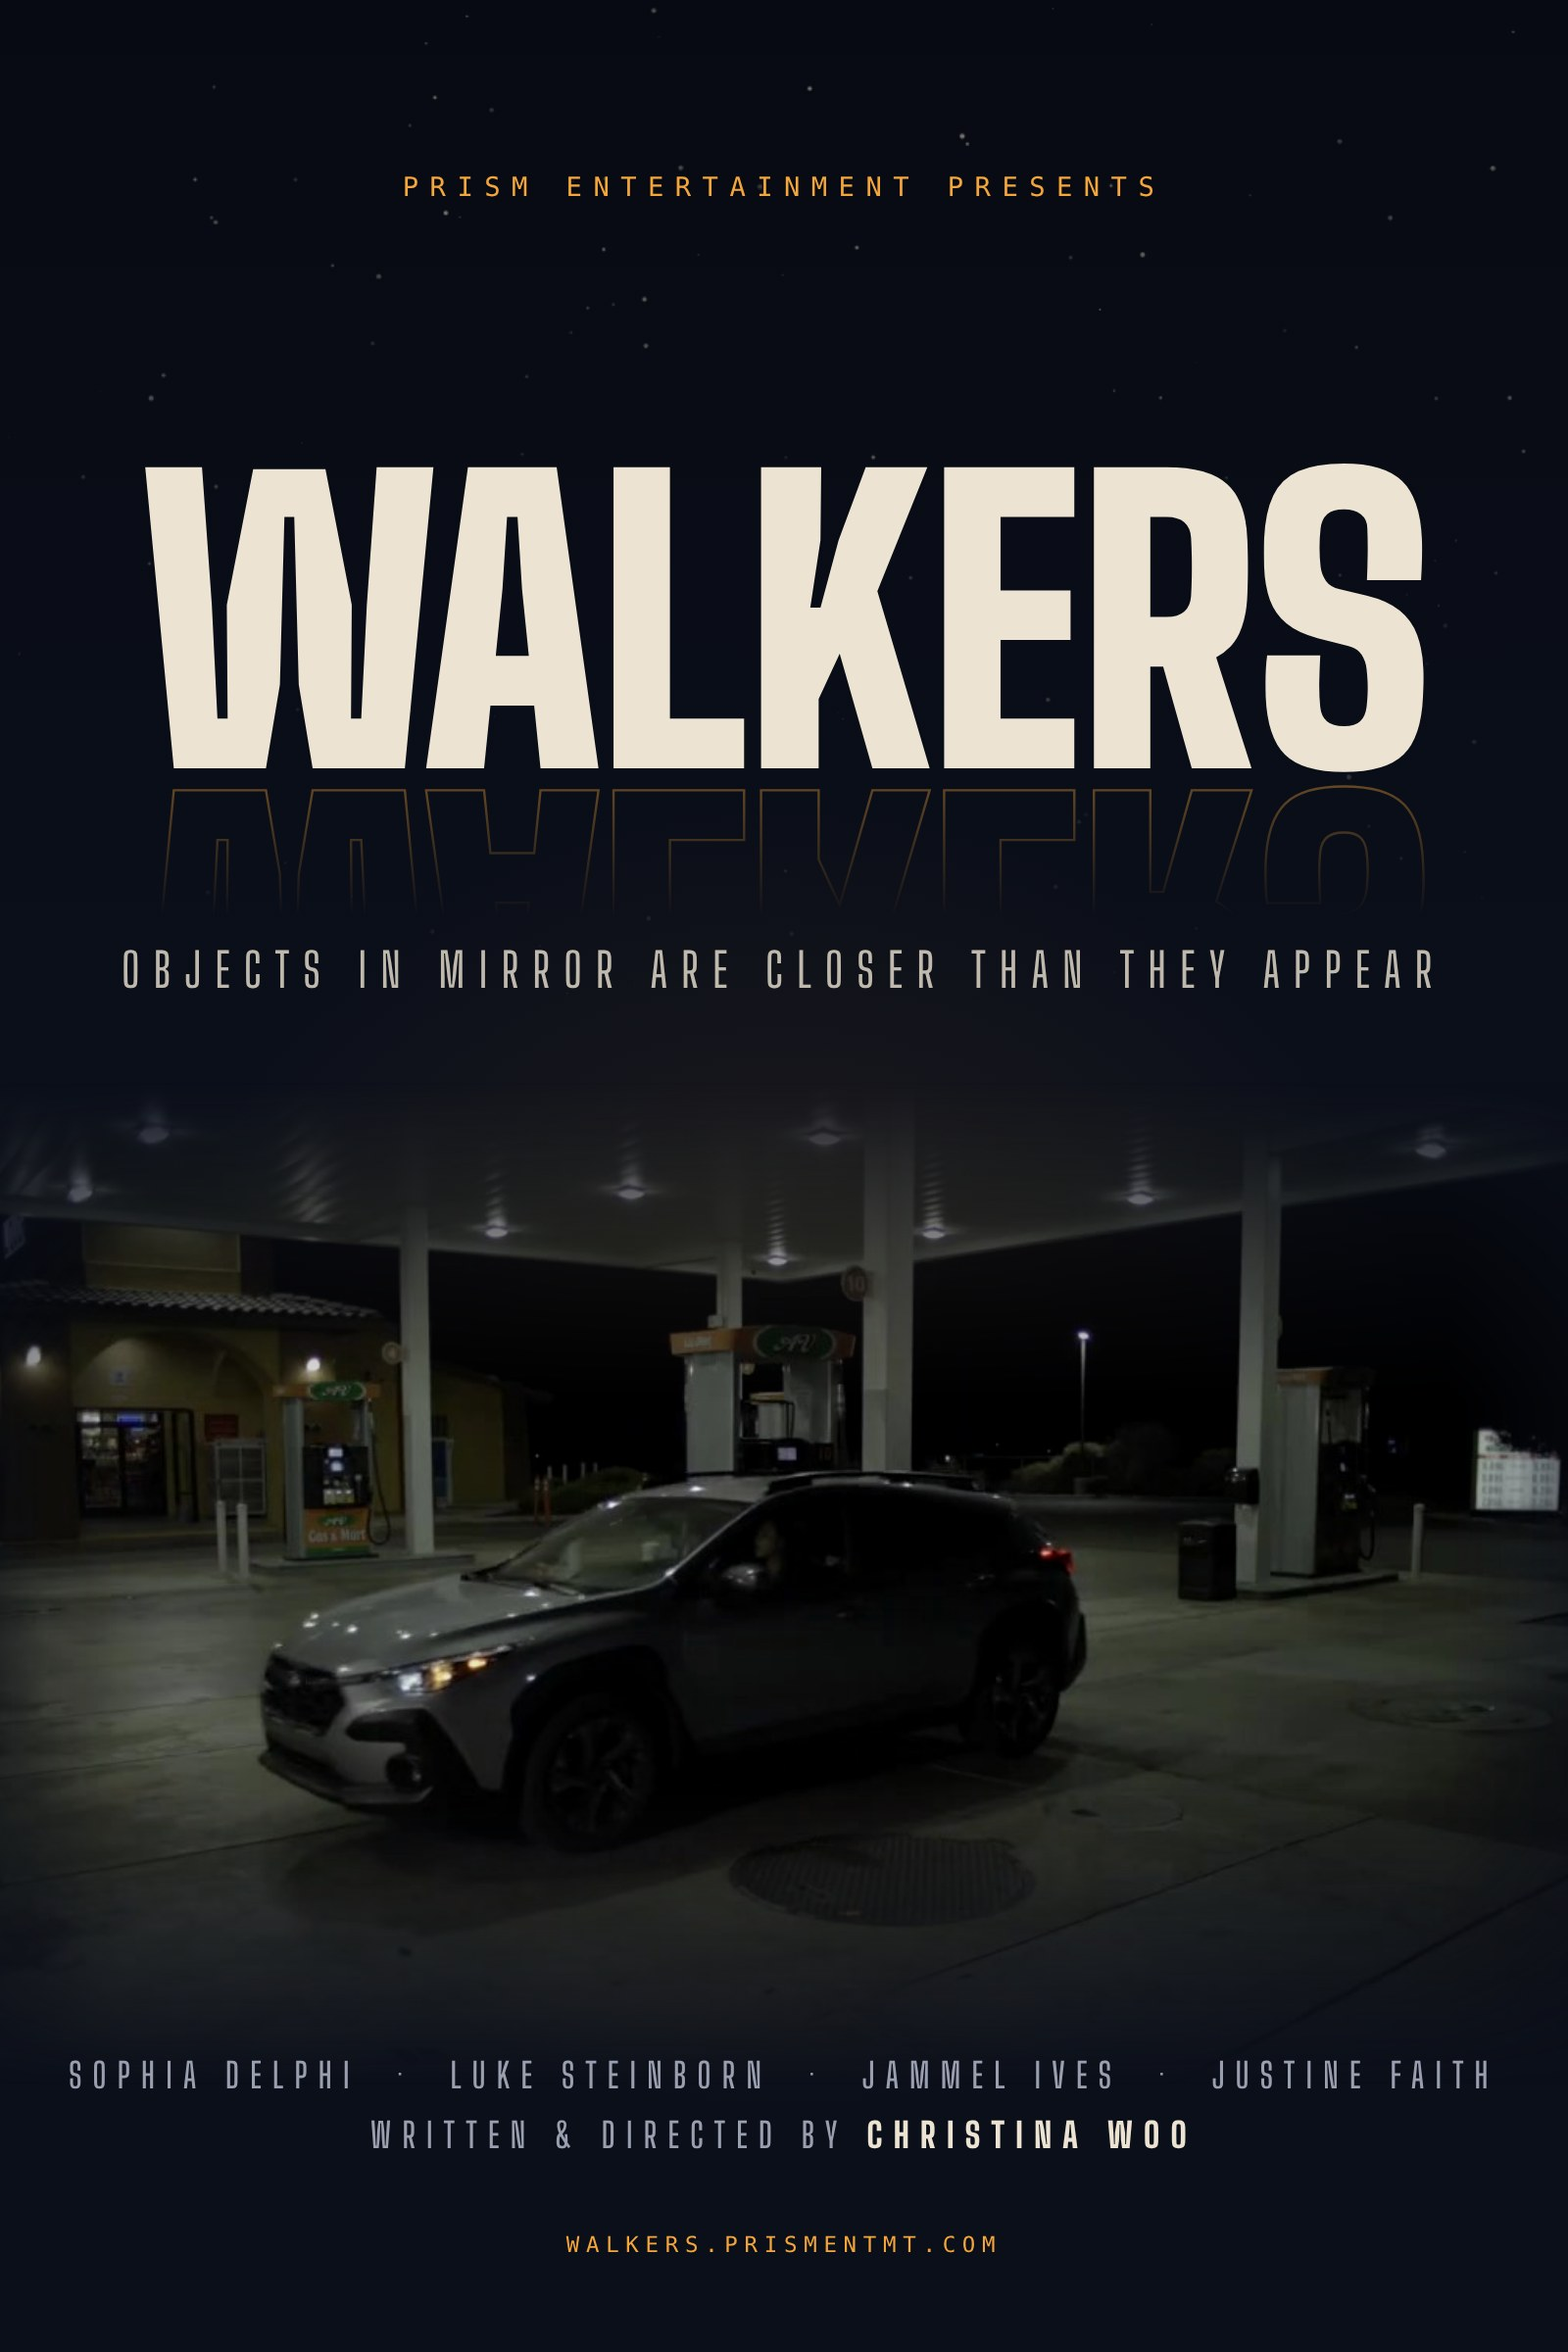
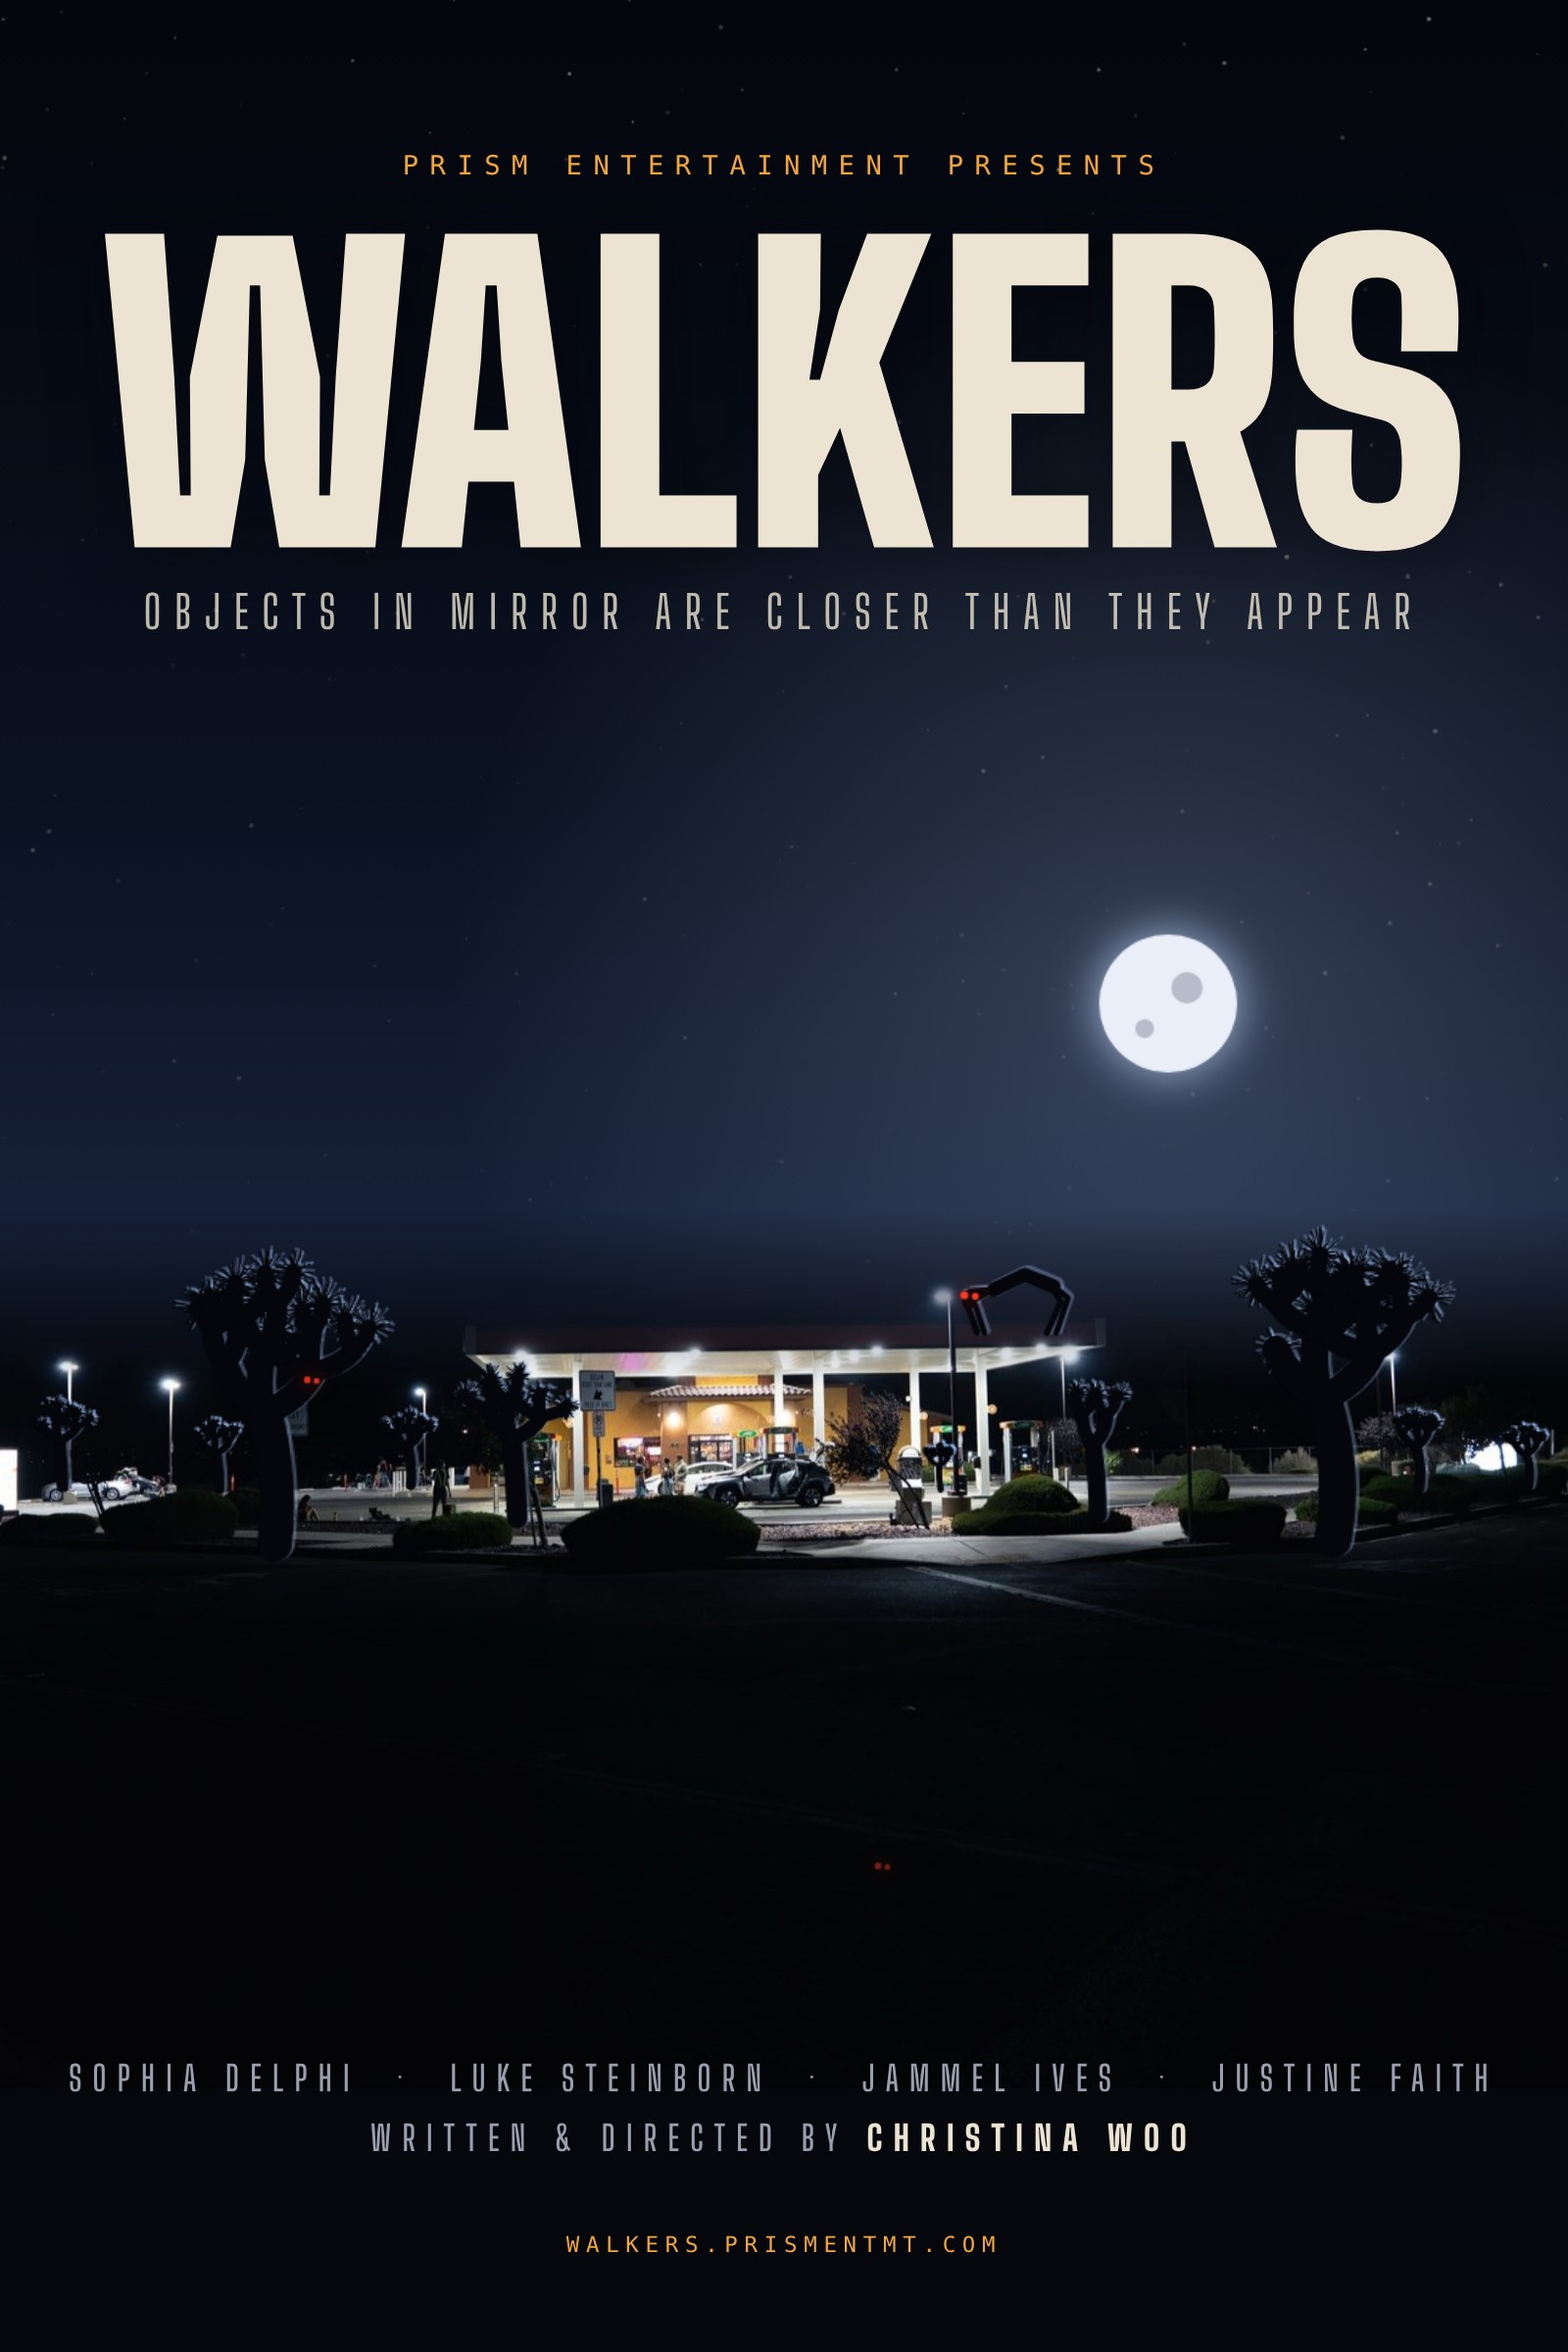
Press kit: illustrated placeholder poster
Claude-Session: https://claude.ai/code/session_019b5pphdTFJBWKmH47AeLNW

diff --git a/press/index.html b/press/index.html
@@ -348,7 +348,7 @@ footer a { color: var(--sand); text-decoration: none; }
 
   <section aria-labelledby="h-poster">
     <h2 id="h-poster">Poster</h2>
-    <a class="poster" href="poster/walkers-poster-placeholder.jpg" target="_blank" rel="noopener"><img src="poster/walkers-poster-placeholder.jpg" alt="WALKERS key art: a lone car under a gas station canopy at night" loading="lazy"></a>
+    <a class="poster" href="poster/walkers-poster-placeholder.jpg" target="_blank" rel="noopener"><img src="poster/walkers-poster-placeholder.jpg" alt="WALKERS key art: a desert gas station at night, ringed by Joshua trees, something crouched on the roof" loading="lazy"></a>
     <p class="poster-note">Placeholder key art. Official poster coming Dec 2026.</p>
   </section>
 
